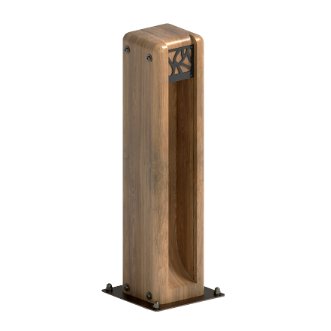
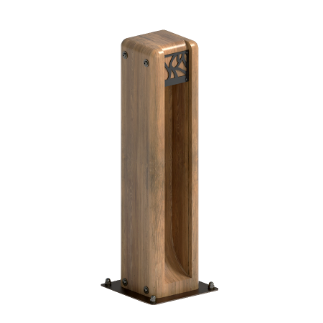
changes

diff --git a/privacy-policy.html b/privacy-policy.html
@@ -59,46 +59,48 @@
         </div> 
         <div class="main-container" id="zIndexChange">
             <main id="content_container">
-                <h1>ПОЛИТИКА КОНФИДЕНЦИАЛЬНОСТИ</h1>
-                <div class = "text_container">
-                    <p>Настоящая Политика действует в отношении всей информации, размещенной на сайте в сети Интернет по адресу: http://3light.ru, которая может быть получена о Пользователе во время использования Сайтов, его сервисов, служб, программ и продуктов.</p>
-                    <p>1. Обрабатываемые данные </p>
-                    <p>1.1. Мы не осуществляем сбор ваших персональных данных с использованием Сайта. </p>
-                    <p>1.2. Все данные, собираемые на Сайте, предоставляются и принимаются в обезличенной форме (далее – «Обезличенные данные»).  </p>
-                    <p>1.3. Обезличенные данные включают следующие сведения, которые не позволяют вас идентифицировать: </p>
-                    <p>1.3.1. Информацию, которую вы предоставляете о себе самостоятельно с использованием онлайн-форм и программных модулей Сайта, включая имя или номер телефона и/или адрес электронной почты. </p>
-                    <p>1.3.2. Данные, которые передаются в обезличенном виде в автоматическом режиме в зависимости от настроек используемого вами программного обеспечения. </p>
-                    <p>1.4. Администрация вправе устанавливать требования к составу Обезличенных данных Пользователя, которые собираются использованием Сайта. </p>
-                    <p>1.5. Если определенная информация не помечена как обязательная, ее предоставление или раскрытие осуществляется Пользователем на свое усмотрение и по собственной инициативе. </p>
-                    <p>1.6. Администрация не осуществляет проверку достоверности предоставляемых данных и наличия у Пользователя необходимого согласия на их обработку в соответствии с настоящей Политикой, полагая, что Пользователь действует добросовестно, осмотрительно и прилагает все необходимые усилия к поддержанию такой информации в актуальном состоянии и получению всех необходимых согласий на ее использование. </p>
-                    <p>1.7. Вы осознаете и принимаете возможность использования на Сайте программного обеспечения третьих лиц, в результате чего такие лица могут получать и передавать указанные в п.1.3 данные в обезличенном виде. </p>
-                    <p>1.8. Состав и условия сбора обезличенных данных с использованием программного обеспечения третьих лиц определяются непосредственно их правообладателями и могут включать: </p>
-                    <p> •  данные браузера (тип, версия, cookie); <br>
-                        •  данные устройства и место его положения; <br>
-                        •  данные операционной системы (тип, версия, разрешение экрана); <br>
-                        •  данные запроса (время, источник перехода, IP-адрес). </p>
-                    <p>1.9. Администрация не несет ответственность за порядок использования Обезличенных данных Пользователя третьими лицами. </p>
-                    <p>2. Цели обработки данных </p>
-                    <p>2.1. Администрация использует данные в следующих целях: </p>
-                    <p>2.1.1. Обработка поступающих запросов и связи с Пользователем; </p>
-                    <p>2.1.2. Информационное обслуживание, включая рассылку рекламно-информационных материалов; </p>
-                    <p>2.1.3. Проведение маркетинговых, статистических и иных исследований; </p>
-                    <p>2.1.4. Таргетирование рекламных материалов на Сайте. </p>
-                    <p>3. Требования к защите данных </p>
-                    <p>3.1. Администрация осуществляет хранение данных и обеспечивает их охрану от несанкционированного доступа и распространения в соответствии с внутренними правилами и регламентами. </p>
-                    <p>3.2. В отношении полученных данных сохраняется конфиденциальность, за исключением случаев, когда они сделаны Пользователем общедоступными, а также когда используемые на Сайте технологии и программное обеспечение третьих лиц либо настройки используемого Пользователем программного обеспечения предусматривают открытый обмен с данными лицами и/или иными участниками и пользователями сети Интернет. </p>
-                    <p>3.3. В целях повышения качества работы Администрация вправе хранить лог-файлы о действиях, совершенных Пользователем в рамках использования Сайта в течение 1 (Одного) года. </p>
-                    <p>4. Передача данных </p>
-                    <p>4.1. Администрация вправе передать данные третьим лицам в следующих случаях: </p>
-                    <p> •  Пользователь выразил свое согласие на такие действия, включая случаи применения Пользователем настроек используемого программного обеспечения, не ограничивающих предоставление определенной информации; <br>
-                        •  Передача необходима в рамках использования Пользователем функциональных возможностей Сайта; <br>
-                        •  Передача требуется в соответствии с целями обработки данных; <br>
-                        •  В связи с передачей Сайта во владение, пользование или собственность такого третьего лица; <br>
-                        •  По запросу суда или иного уполномоченного государственного органа в рамках установленной законодательством процедуры; <br>
-                        •  Для защиты прав и законных интересов Администрации в связи с допущенными Пользователем нарушениями. </p>
-                    <p>5. Изменение Политики конфиденциальности </p>
-                    <p>5.1. Настоящая Политика может быть изменена или прекращена Администрацией в одностороннем порядке без предварительного уведомления Пользователя. Новая редакция Политики вступает в силу с момента ее размещения на Сайте, если иное не предусмотрено новой редакцией Политики. </p>
-                    <p>5.2. Действующая редакция Политики находится на Сайте в сети Интернет по адресу: https://3light.ru/politika-konfidencialnosti  Действующая редакция Политики от 02.10.2022 г. </p>
+                <div class ="center_vertical">
+                    <h1>ПОЛИТИКА КОНФИДЕНЦИАЛЬНОСТИ</h1>
+                    <div class = "text_container">
+                        <p>Настоящая Политика действует в отношении всей информации, размещенной на сайте в сети Интернет по адресу: http://3light.ru, которая может быть получена о Пользователе во время использования Сайтов, его сервисов, служб, программ и продуктов.</p>
+                        <p>1. Обрабатываемые данные </p>
+                        <p>1.1. Мы не осуществляем сбор ваших персональных данных с использованием Сайта. </p>
+                        <p>1.2. Все данные, собираемые на Сайте, предоставляются и принимаются в обезличенной форме (далее – «Обезличенные данные»).  </p>
+                        <p>1.3. Обезличенные данные включают следующие сведения, которые не позволяют вас идентифицировать: </p>
+                        <p>1.3.1. Информацию, которую вы предоставляете о себе самостоятельно с использованием онлайн-форм и программных модулей Сайта, включая имя или номер телефона и/или адрес электронной почты. </p>
+                        <p>1.3.2. Данные, которые передаются в обезличенном виде в автоматическом режиме в зависимости от настроек используемого вами программного обеспечения. </p>
+                        <p>1.4. Администрация вправе устанавливать требования к составу Обезличенных данных Пользователя, которые собираются использованием Сайта. </p>
+                        <p>1.5. Если определенная информация не помечена как обязательная, ее предоставление или раскрытие осуществляется Пользователем на свое усмотрение и по собственной инициативе. </p>
+                        <p>1.6. Администрация не осуществляет проверку достоверности предоставляемых данных и наличия у Пользователя необходимого согласия на их обработку в соответствии с настоящей Политикой, полагая, что Пользователь действует добросовестно, осмотрительно и прилагает все необходимые усилия к поддержанию такой информации в актуальном состоянии и получению всех необходимых согласий на ее использование. </p>
+                        <p>1.7. Вы осознаете и принимаете возможность использования на Сайте программного обеспечения третьих лиц, в результате чего такие лица могут получать и передавать указанные в п.1.3 данные в обезличенном виде. </p>
+                        <p>1.8. Состав и условия сбора обезличенных данных с использованием программного обеспечения третьих лиц определяются непосредственно их правообладателями и могут включать: </p>
+                        <p> •  данные браузера (тип, версия, cookie); <br>
+                            •  данные устройства и место его положения; <br>
+                            •  данные операционной системы (тип, версия, разрешение экрана); <br>
+                            •  данные запроса (время, источник перехода, IP-адрес). </p>
+                        <p>1.9. Администрация не несет ответственность за порядок использования Обезличенных данных Пользователя третьими лицами. </p>
+                        <p>2. Цели обработки данных </p>
+                        <p>2.1. Администрация использует данные в следующих целях: </p>
+                        <p>2.1.1. Обработка поступающих запросов и связи с Пользователем; </p>
+                        <p>2.1.2. Информационное обслуживание, включая рассылку рекламно-информационных материалов; </p>
+                        <p>2.1.3. Проведение маркетинговых, статистических и иных исследований; </p>
+                        <p>2.1.4. Таргетирование рекламных материалов на Сайте. </p>
+                        <p>3. Требования к защите данных </p>
+                        <p>3.1. Администрация осуществляет хранение данных и обеспечивает их охрану от несанкционированного доступа и распространения в соответствии с внутренними правилами и регламентами. </p>
+                        <p>3.2. В отношении полученных данных сохраняется конфиденциальность, за исключением случаев, когда они сделаны Пользователем общедоступными, а также когда используемые на Сайте технологии и программное обеспечение третьих лиц либо настройки используемого Пользователем программного обеспечения предусматривают открытый обмен с данными лицами и/или иными участниками и пользователями сети Интернет. </p>
+                        <p>3.3. В целях повышения качества работы Администрация вправе хранить лог-файлы о действиях, совершенных Пользователем в рамках использования Сайта в течение 1 (Одного) года. </p>
+                        <p>4. Передача данных </p>
+                        <p>4.1. Администрация вправе передать данные третьим лицам в следующих случаях: </p>
+                        <p> •  Пользователь выразил свое согласие на такие действия, включая случаи применения Пользователем настроек используемого программного обеспечения, не ограничивающих предоставление определенной информации; <br>
+                            •  Передача необходима в рамках использования Пользователем функциональных возможностей Сайта; <br>
+                            •  Передача требуется в соответствии с целями обработки данных; <br>
+                            •  В связи с передачей Сайта во владение, пользование или собственность такого третьего лица; <br>
+                            •  По запросу суда или иного уполномоченного государственного органа в рамках установленной законодательством процедуры; <br>
+                            •  Для защиты прав и законных интересов Администрации в связи с допущенными Пользователем нарушениями. </p>
+                        <p>5. Изменение Политики конфиденциальности </p>
+                        <p>5.1. Настоящая Политика может быть изменена или прекращена Администрацией в одностороннем порядке без предварительного уведомления Пользователя. Новая редакция Политики вступает в силу с момента ее размещения на Сайте, если иное не предусмотрено новой редакцией Политики. </p>
+                        <p>5.2. Действующая редакция Политики находится на Сайте в сети Интернет по адресу: https://3light.ru/politika-konfidencialnosti  Действующая редакция Политики от 02.10.2022 г. </p>
+                    </div>
                 </div>             
             </main>
             <div class="footer">

diff --git a/about-company.html b/about-company.html
@@ -59,12 +59,14 @@
         </div> 
         <div class="main-container" id="zIndexChange">
             <main id="content_container">
-                <h1>О КОМПАНИИ</h1>
-                <div class = "text_container">
-                    <p>Компания 3Light - российская производственная компания, основанная на базе производственного холдинга CHUGUNY.</p> 
-                    <p>Цель компании - создание светильников уникального дизайна из дерева, которые будут гармонично вписываться в природный ландшафт, украшая и дополняя его как в дневное, так и ночное время. В основе философии производимой компанией продукции - концепция природной эстетики - естественность, простота, функциональность. Использование при производстве благородных пород дерева: дуб, ясень, качественных материалов и комплектующих, позволяет быть уверенными в качестве и надежности производимых нами светильников.</p> 
-                    <p>Линейку светильников 3Light объединяет общее дизайнерское решение, позволяющее комбинировать различные светильники как по функциональным требованиям, так и объемно-декоративным характеристикам. Что позволяет воплощать разнообразные идеи по художественному декорированию природного ландшафта, а также решать комплекс задач по функциональному освещению различных по назначению территорий.</p>
-                </div>             
+                <div class = "center_vertical">
+                    <h1>О КОМПАНИИ</h1>
+                    <div class = "text_container">
+                        <p>Компания 3Light - российская производственная компания, основанная на базе производственного холдинга CHUGUNY.</p> 
+                        <p>Цель компании - создание светильников уникального дизайна из дерева, которые будут гармонично вписываться в природный ландшафт, украшая и дополняя его как в дневное, так и ночное время. В основе философии производимой компанией продукции - концепция природной эстетики - естественность, простота, функциональность. Использование при производстве благородных пород дерева: дуб, ясень, качественных материалов и комплектующих, позволяет быть уверенными в качестве и надежности производимых нами светильников.</p> 
+                        <p>Линейку светильников 3Light объединяет общее дизайнерское решение, позволяющее комбинировать различные светильники как по функциональным требованиям, так и объемно-декоративным характеристикам. Что позволяет воплощать разнообразные идеи по художественному декорированию природного ландшафта, а также решать комплекс задач по функциональному освещению различных по назначению территорий.</p>
+                    </div>
+                </div>            
             </main>
             <div class="footer">
                 <hr class="footer_divider">

diff --git a/application-form.html b/application-form.html
@@ -62,24 +62,26 @@
         </div> 
         <div class="main-container" id="zIndexChange">
             <main id="content_container">
-                <p class="form_text">Вы можете отправить запрос по интересующему Вас вопросу</p>
-                <form class="float-right" action="" method="post">
-                    <label for="name">Ваше Имя*</label>
-                    <input type="text" id="name" name="name" required>
-                
-                    <label for="phone">Ваш телефон</label>
-                    <input type="text" id="phone" name="phone">
-                
-                    <label for="email">Ваш e-mail*</label>
-                    <input type="text" id="email" name="email" required>
-                
-                    <label for="message">Ваше сообщение или комментарий*</label>
-                    <textarea id="message" name="message" required></textarea>
-                    <!-- <input type="checkbox" id="privacy_policy" name="privacy_policy" value="Privacy Policy"> -->
-                    <!-- <label for="privacy_policy" class="privacy_policy">я даю своё согласие на обработку моих персональных данных, на условиях и для целей, определённых <a class="privacy_policy" href="privacy-policy.html">политикой конфиденциальности</a></label><br> -->
-                    <label class="privacy_policy">Нажимая кнопку «Отправить», я даю своё согласие на обработку моих персональных данных, на условиях и для целей, определённых <a class="privacy_policy" href="privacy-policy.html">политикой конфиденциальности</a></label><br>
-                    <input type="submit" name = "submit" value="Отправить">
-                </form>
+                <!-- <div class = "center_vertical"> -->
+                    <p class="form_text">Вы можете отправить запрос по интересующему Вас вопросу</p>
+                    <form class="float-right" action="" method="post">
+                        <label for="name">Ваше Имя*</label>
+                        <input type="text" id="name" name="name" required>
+                    
+                        <label for="phone">Ваш телефон</label>
+                        <input type="text" id="phone" name="phone">
+                    
+                        <label for="email">Ваш e-mail*</label>
+                        <input type="text" id="email" name="email" required>
+                    
+                        <label for="message">Ваше сообщение или комментарий*</label>
+                        <textarea id="message" name="message" required></textarea>
+                        <!-- <input type="checkbox" id="privacy_policy" name="privacy_policy" value="Privacy Policy"> -->
+                        <!-- <label for="privacy_policy" class="privacy_policy">я даю своё согласие на обработку моих персональных данных, на условиях и для целей, определённых <a class="privacy_policy" href="privacy-policy.html">политикой конфиденциальности</a></label><br> -->
+                        <label class="privacy_policy">Нажимая кнопку «Отправить», я даю своё согласие на обработку моих персональных данных, на условиях и для целей, определённых <a class="privacy_policy" href="privacy-policy.html">политикой конфиденциальности</a></label><br>
+                        <input type="submit" name = "submit" value="Отправить">
+                    </form>
+                <!-- </div> -->
             </main>
             <div class="footer">
                 <hr class="footer_divider">

diff --git a/contact.html b/contact.html
@@ -59,18 +59,20 @@
         </div> 
         <div class="main-container" id="zIndexChange">
             <main id="content_container">
-                <h1>КОНТАКТЫ</h1>
-                <div class = "text_container">
-                    <p>Адрес:<br>
-                        Удмуртская республика, г.Глазов,<br>
-                        ул.Драгунова, д.69</p>
-                    <p>Часы работы:<br>
-                        пн-пт 10:00–19:00,<br>
-                        сб, вс - выходной</p>
-                    <p>Контактные телефоны:<br>
-                        +7 (495) 111-11-11</p>
-                    <p>E-mail: info@3light.ru</p>                
-                </div>             
+                <div class = "center_vertical">
+                    <h1>КОНТАКТЫ</h1>
+                    <div class = "text_container">
+                        <p>Адрес:<br>
+                            Удмуртская республика, г.Глазов,<br>
+                            ул.Драгунова, д.69</p>
+                        <p>Часы работы:<br>
+                            пн-пт 10:00–19:00,<br>
+                            сб, вс - выходной</p>
+                        <p>Контактные телефоны:<br>
+                            +7 (495) 111-11-11</p>
+                        <p>E-mail: info@3light.ru</p>                
+                    </div> 
+                </div>            
             </main>
             <div class="footer">
                 <hr class="footer_divider">

diff --git a/index.html b/index.html
@@ -65,7 +65,7 @@
                 <div class="flex">
                     <div class="product">
                         <h3 class="product__title">НАНА</h3>
-                        <a href="nana.html" class="product__container"><img src="img/nana_deko.png" alt="НАНА" class="product__img">
+                        <a href="nana.html" class="product__container"><img src="img/nana.png" alt="НАНА" class="product__img">
 <!--                        <picture>
                                 <source srcset="img/nana-slider-mobile.png" media="(min-width: 1280px)" />
                                 <img class="product__img" src="img/nana.png" alt="НАНА" />

diff --git a/css/overall-secondary.css b/css/overall-secondary.css
@@ -69,6 +69,12 @@
       overflow-y: scroll; */
     }
 
+    .center_vertical{
+      position: absolute;
+      top:50%;
+      transform: translateY(-50%);
+    }
+
     .text_container{
       height:50vh;
       overflow-y: scroll;
